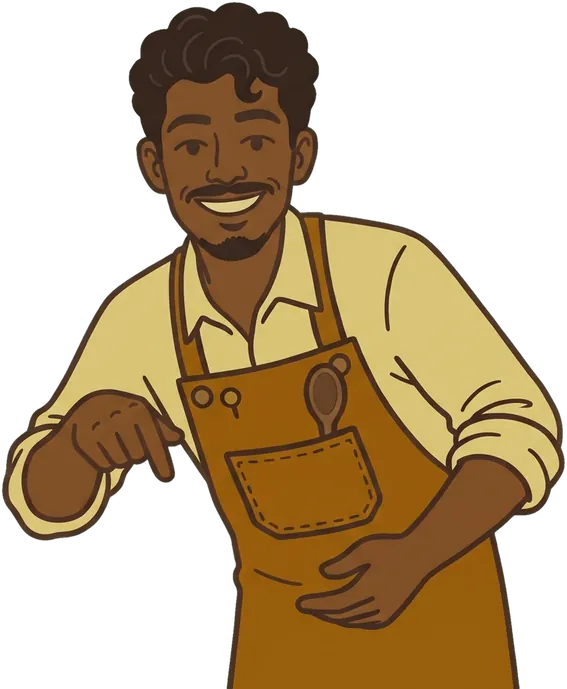
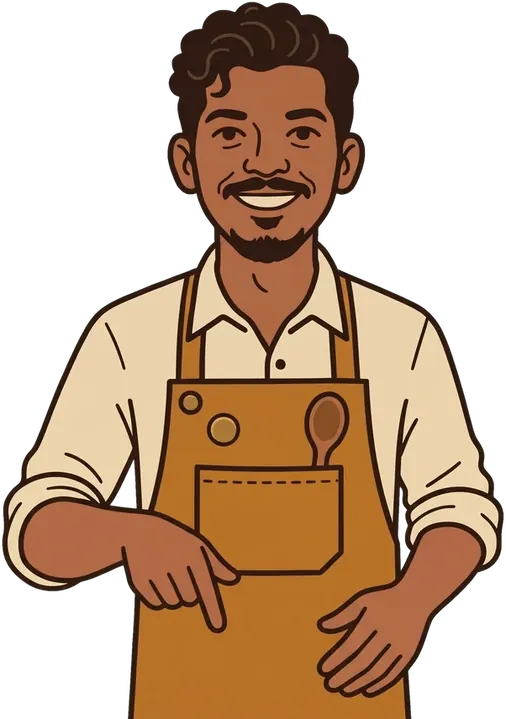
Replace inconsistent barista frames with regenerated, colour-matched ones
Claude-Session: https://claude.ai/code/session_01M7PDTuVyJJ1kuWZYfUFzFc

diff --git a/js/art.js b/js/art.js
@@ -225,27 +225,27 @@ window.ART = (function () {
     espresso: [-411, 153, 806, 450],
     /* frames for the small animations (hello wave, talking, reactions, tongs, writing on the cup) */
     wave1: [-154, 204, 325, 412],
-    wave2: [-153, 203, 360, 541],
-    wave3: [-153, 203, 365, 541],
+    wave2: [-153, 203, 325, 430],
+    wave3: [-153, 203, 328, 430],
     shrug: [-204, 204, 383, 412],
     tada: [-203, 204, 382, 412],
     crossed: [-136, 204, 279, 411],
-    think: [-130, 203, 351, 438],
+    think: [-126, 204, 263, 438],
     phone: [-192, 204, 360, 412],
     laugh: [-154, 204, 314, 412],
-    point: [-144, 203, 366, 444],
-    thumbs: [-144, 203, 366, 444],
-    bill: [-204, 203, 367, 466],
+    point: [-169, 204, 326, 464],
+    thumbs: [-158, 203, 320, 438],
+    bill: [-199, 203, 392, 580],
     jar: [-155, 204, 320, 412],
-    brew: [-172, 203, 498, 435],
-    tongs1: [-300, 218, 523, 433],
-    tongs2: [-294, 218, 518, 432],
-    tongs3: [-264, 203, 488, 447],
-    write1: [-183, 204, 345, 443],
-    write2: [-183, 203, 345, 443],
-    write3: [-184, 203, 346, 443],
-    write4: [-184, 203, 347, 443],
-    write5: [-184, 204, 347, 443],
+    brew: [-192, 203, 449, 583],
+    tongs1: [-247, 223, 441, 563],
+    tongs2: [-213, 224, 406, 563],
+    tongs3: [-247, 203, 441, 583],
+    write1: [-199, 203, 390, 577],
+    write2: [-199, 203, 359, 577],
+    write3: [-199, 203, 359, 577],
+    write4: [-199, 203, 359, 577],
+    write5: [-199, 203, 359, 577],
   };
   function barista(initials = "JPM", img = null, poses = null) {
     /* the illustration version: picture poses that walk, lean, reach and serve */
